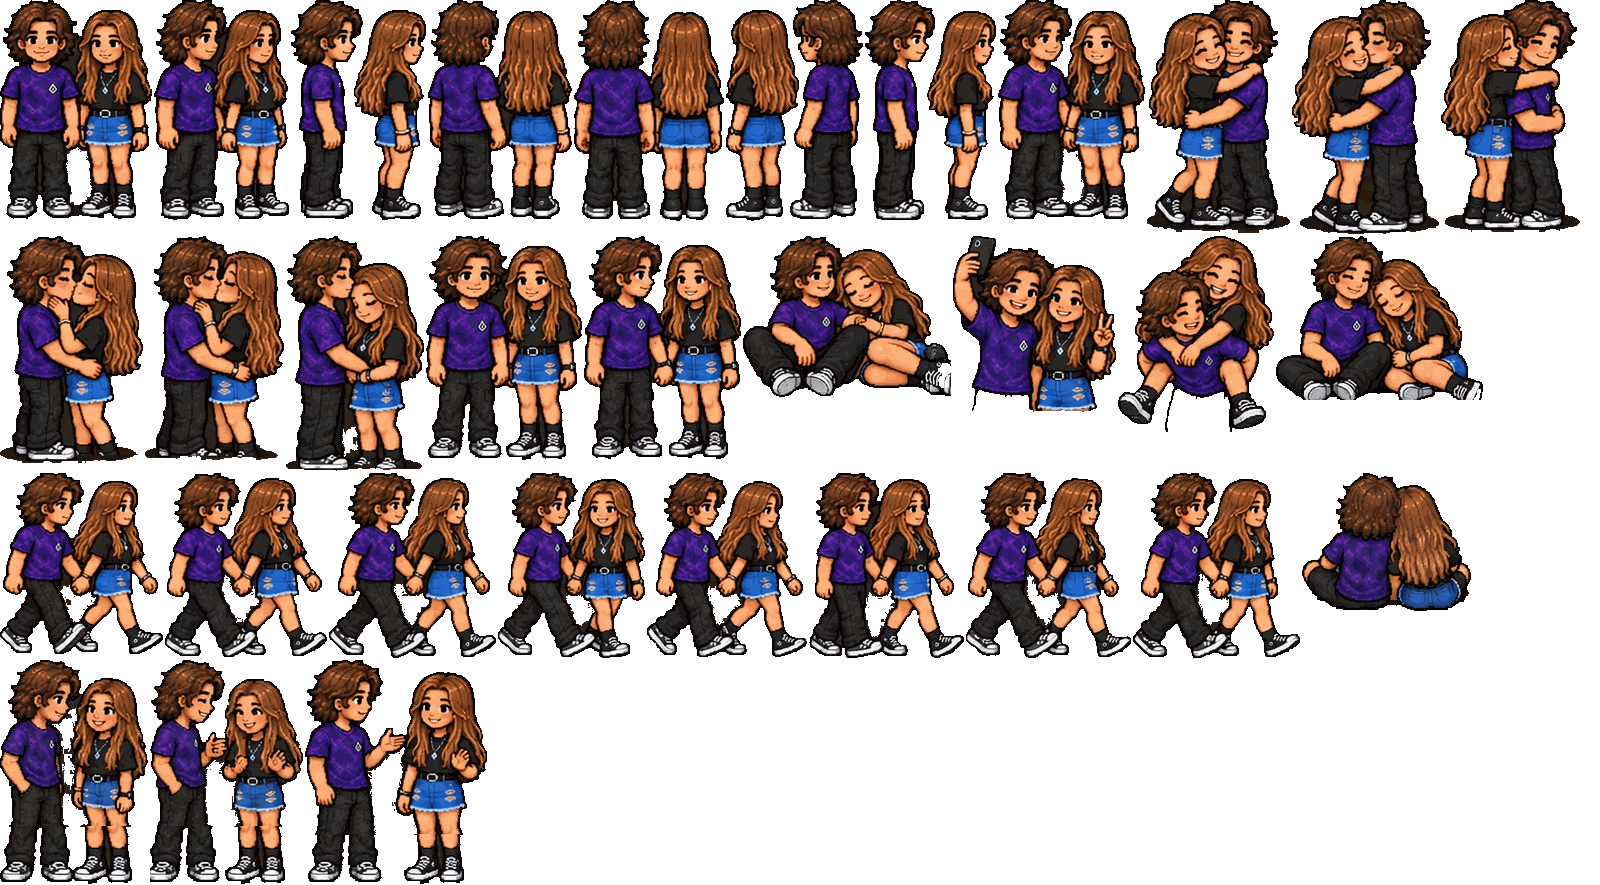
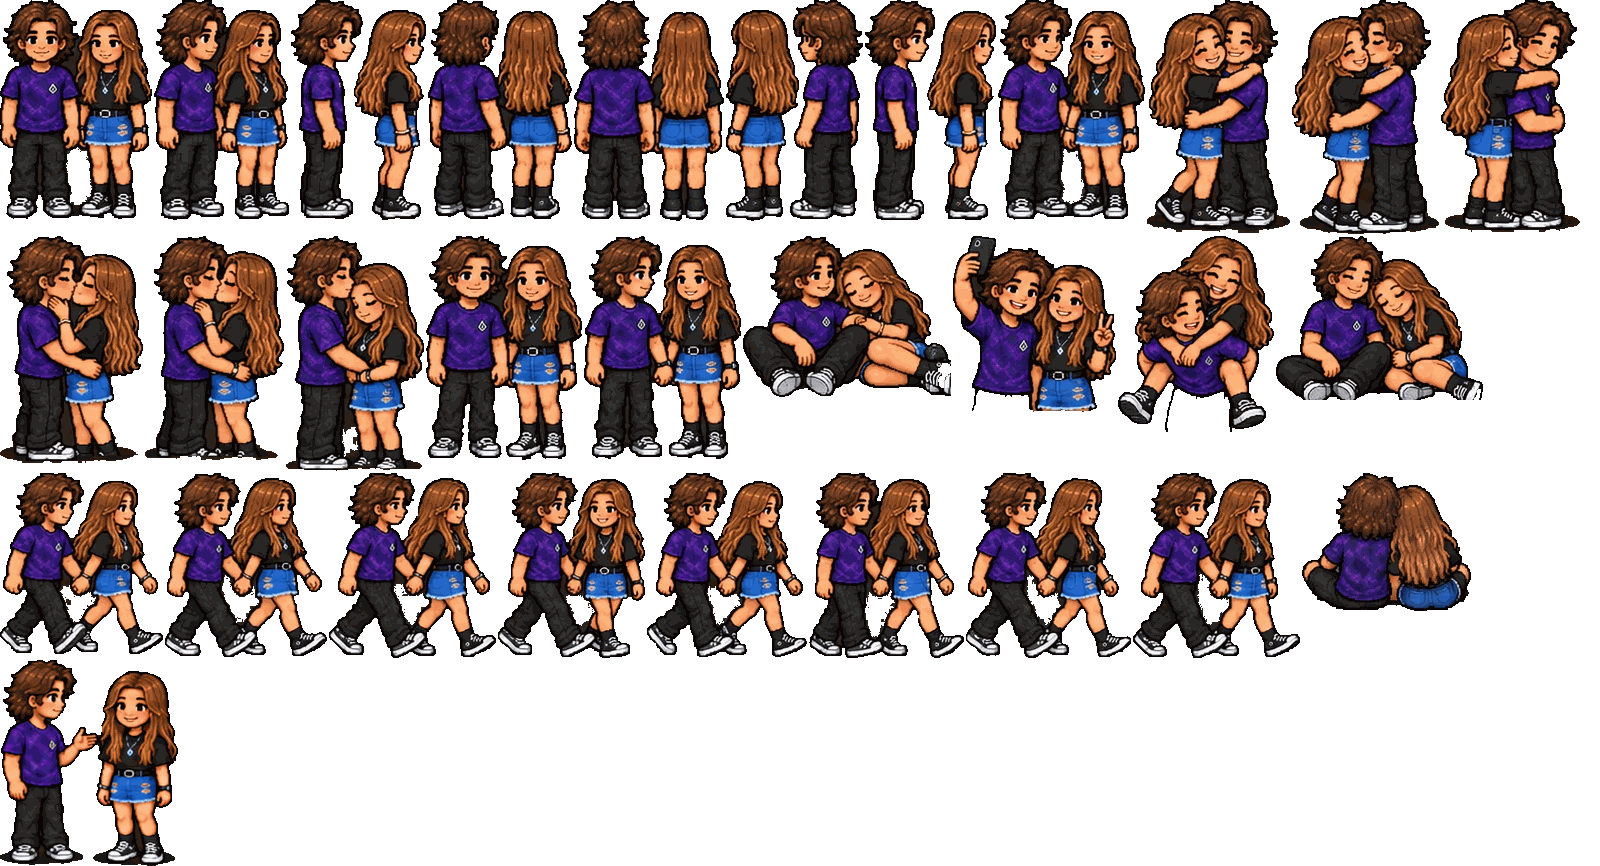
Use the full-length talk/chat pose instead of grafted legs
Claude-Session: https://claude.ai/code/session_01CYk3xYTLtQ9wMMS1b1SGUS

diff --git a/game.js b/game.js
@@ -2328,11 +2328,10 @@ const COUPLE = {
   walk6: [966, 473, 165, 185],
   walk7: [1133, 473, 167, 185],
   sitBack: [1302, 473, 169, 138],
-  talkHer: [0, 660, 148, 225],
-  talkHim: [150, 660, 153, 225],
-  talkBoth: [305, 660, 182, 225],
+  talk: [0, 660, 178, 206],
 };
 const COUPLE_K = 0.82; // sheet px to map px, so they match the single sprites
+const COUPLE_SIZE = { talk: 1.06 }; // drawn a touch smaller on its sheet
 const COUPLE_WALK = 8; // walk frames per stride cycle
 
 // Walking hand in hand ('hands') or with her on his back ('piggy'): you steer
@@ -2429,14 +2428,12 @@ function chattingStanding() {
     Math.hypot(player.x - partner.x, player.y - partner.y) < PARTNER_RANGE * 1.5 * room.scale;
 }
 
-// Whoever's speaking gets the talking pose; while their line types out it
-// flips to the other chat frame every so often so they look animated.
+// The talk / chat pose, with a speech bubble over whoever's line is typing out.
 function talkFrame() {
   const line = dialogue.lines[dialogue.i];
   const herTalking = line?.who === 'her';
   const typing = line && !dialogue.menu && dialogue.shown < line.text.length;
-  const alt = typing && Math.floor(dialogue.blink / 0.45) % 2 === 1;
-  const name = alt ? 'talkBoth' : herTalking ? 'talkHer' : 'talkHim';
+  const name = 'talk';
   const mirror = !hisSideLeft();
   // In the art he's on the left: the bubble goes over whoever's talking
   const herSide = mirror ? -1 : 1;
@@ -2452,8 +2449,9 @@ function talkFrame() {
 // "..." speech bubble, dots bouncing in turn
 function drawTalkBubble(c, w, h) {
   const s = room.scale;
-  const bx = c.x + c.bubble * w * COUPLE_K * 0.27 * s;
-  const by = c.y - (h * COUPLE_K + 14) * s;
+  const k = COUPLE_K * (COUPLE_SIZE[c.name] ?? 1);
+  const bx = c.x + c.bubble * w * k * 0.27 * s;
+  const by = c.y - (h * k + 14) * s;
   const bw = 30 * s;
   const bh = 18 * s;
   ctx.save();
@@ -2492,7 +2490,8 @@ function drawCouple(c) {
     ctx.fill();
   }
   ctx.translate(0, -(c.lift ?? 0));
-  ctx.scale(c.mirror ? -COUPLE_K : COUPLE_K, COUPLE_K);
+  const k = COUPLE_K * (COUPLE_SIZE[c.name] ?? 1);
+  ctx.scale(c.mirror ? -k : k, k);
   ctx.imageSmoothingQuality = 'high';
   ctx.drawImage(coupleImg, sx, sy, w, h, -w / 2, -h, w, h);
   ctx.restore();

diff --git a/README.md b/README.md
@@ -25,7 +25,7 @@ A hosted copy runs inside the Claude app: https://claude.ai/artifact/3jkuJWVcY6z
 
 Walk up to the couch to sit and read (she faces the TV, so you see her from behind). Reading opens the book: drag the finger along every line to turn the text from black to yellow before the timer runs out, and the page turns. Read 4 pages to finish the chapter, then she stands up. The dog-walk alert waits while any minigame is going on. Her dog tags along behind her and hops up to lie beside her whenever she sits down.
 
-He stands in the kitchen, between the island and the counters. Walk up and press T (or tap the pink TALK button) to chat. Talking has its own key and button, separate from E / the action button that sits, opens doors and so on, so chatting next to the couch never sits you down by accident: they say hi and a menu of things to say pops up (pick with up/down or a tap, confirm with E/NEXT). Whatever you pick, you say it and they answer, and most answers bring up a new menu, so a chat can go a few different ways (`TALK_TREE` in `game.js`). Options in pink with a ♥ lead to a kiss, and each of those kisses has its own lines afterwards (some lead on into more talking or a cuddle). Some chats end with the two of you cuddling on the couch (or the end of the bed in the bedroom) with the dog curled up next to you: hearts drift up, E / KISS gives a little kiss, and moving gets you up. Others end with you taking the dog straight out to the yard. When the two of them are together they use shared art (`assets/couple.png`): chatting face to face shows them in their talk/chat poses (the speaker gestures, with a little "..." bubble while their line types out; the sheet only draws these down to the knees, so the legs are finished with the standing frame's), kisses and hugs show them kissing or hugging (some talk-menu kisses are forehead kisses), cuddles show them sitting together on the couch or leaning on each other on the bed, "walk with me" has them walk hand in hand (you steer both; E lets go, and doors take you through together), "Surprise me" can end in a piggyback ride, and "Hold still, I want a picture" takes a selfie that pops up as a polaroid. Choosing Kiss from the main menu makes them cheer and hop while hearts float away, and then you swap: you play as him (`assets/him.png`) and she waits where you left her. Talk to her and choose Kiss to swap back. After each kiss the two of them have a short chat in the same text box before you swap. Whoever you're not playing moves around the apartment on their own (couch, kitchen, TV, window), and stops to wave when you walk up. Their names are in `NAMES` in `game.js`. Playing as him, the living-room couch is for video games instead of reading: sitting down starts **Forest Falls**, a real side-scrolling platformer (`assets/forest.png`, `assets/forest-bg.jpg`) shown full screen and mirrored on the TV. Run with left/right, jump with Space/Up (or the JUMP button), attack with E/X (or HIT), drop through planks with Down, quit with Esc or the ✕. Stomp or slash slimes, birds and bats, slash the biting plants, collect coins, gems and hearts, and reach the flag. Every third level ends with a stone golem boss. Lose all four hearts and it's game over; your best level is remembered.
+He stands in the kitchen, between the island and the counters. Walk up and press T (or tap the pink TALK button) to chat. Talking has its own key and button, separate from E / the action button that sits, opens doors and so on, so chatting next to the couch never sits you down by accident: they say hi and a menu of things to say pops up (pick with up/down or a tap, confirm with E/NEXT). Whatever you pick, you say it and they answer, and most answers bring up a new menu, so a chat can go a few different ways (`TALK_TREE` in `game.js`). Options in pink with a ♥ lead to a kiss, and each of those kisses has its own lines afterwards (some lead on into more talking or a cuddle). Some chats end with the two of you cuddling on the couch (or the end of the bed in the bedroom) with the dog curled up next to you: hearts drift up, E / KISS gives a little kiss, and moving gets you up. Others end with you taking the dog straight out to the yard. When the two of them are together they use shared art (`assets/couple.png`): chatting face to face shows them in the talk/chat pose, with a little "..." bubble over whoever's line is typing out, kisses and hugs show them kissing or hugging (some talk-menu kisses are forehead kisses), cuddles show them sitting together on the couch or leaning on each other on the bed, "walk with me" has them walk hand in hand (you steer both; E lets go, and doors take you through together), "Surprise me" can end in a piggyback ride, and "Hold still, I want a picture" takes a selfie that pops up as a polaroid. Choosing Kiss from the main menu makes them cheer and hop while hearts float away, and then you swap: you play as him (`assets/him.png`) and she waits where you left her. Talk to her and choose Kiss to swap back. After each kiss the two of them have a short chat in the same text box before you swap. Whoever you're not playing moves around the apartment on their own (couch, kitchen, TV, window), and stops to wave when you walk up. Their names are in `NAMES` in `game.js`. Playing as him, the living-room couch is for video games instead of reading: sitting down starts **Forest Falls**, a real side-scrolling platformer (`assets/forest.png`, `assets/forest-bg.jpg`) shown full screen and mirrored on the TV. Run with left/right, jump with Space/Up (or the JUMP button), attack with E/X (or HIT), drop through planks with Down, quit with Esc or the ✕. Stomp or slash slimes, birds and bats, slash the biting plants, collect coins, gems and hearts, and reach the flag. Every third level ends with a stone golem boss. Lose all four hearts and it's game over; your best level is remembered.
 
 Walk up to the door at the top of the apartment and press E (or tap ENTER) to go into the bedroom; you come in through its bottom door. Stand by that door and press E (or tap EXIT) to go back. Your dog comes with you.
 
